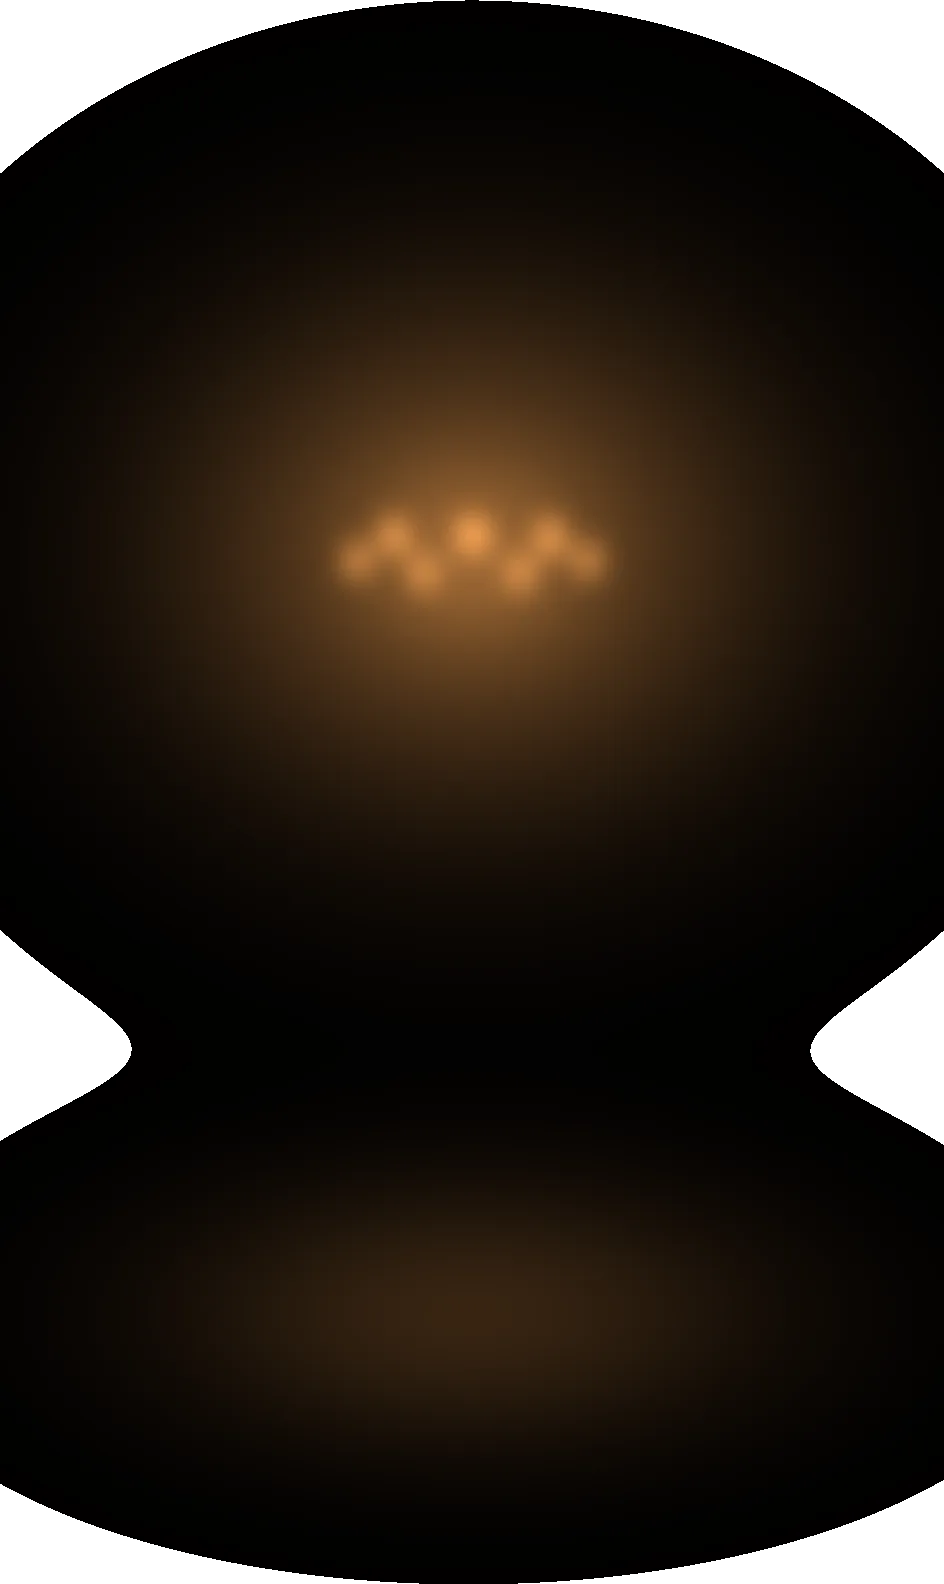
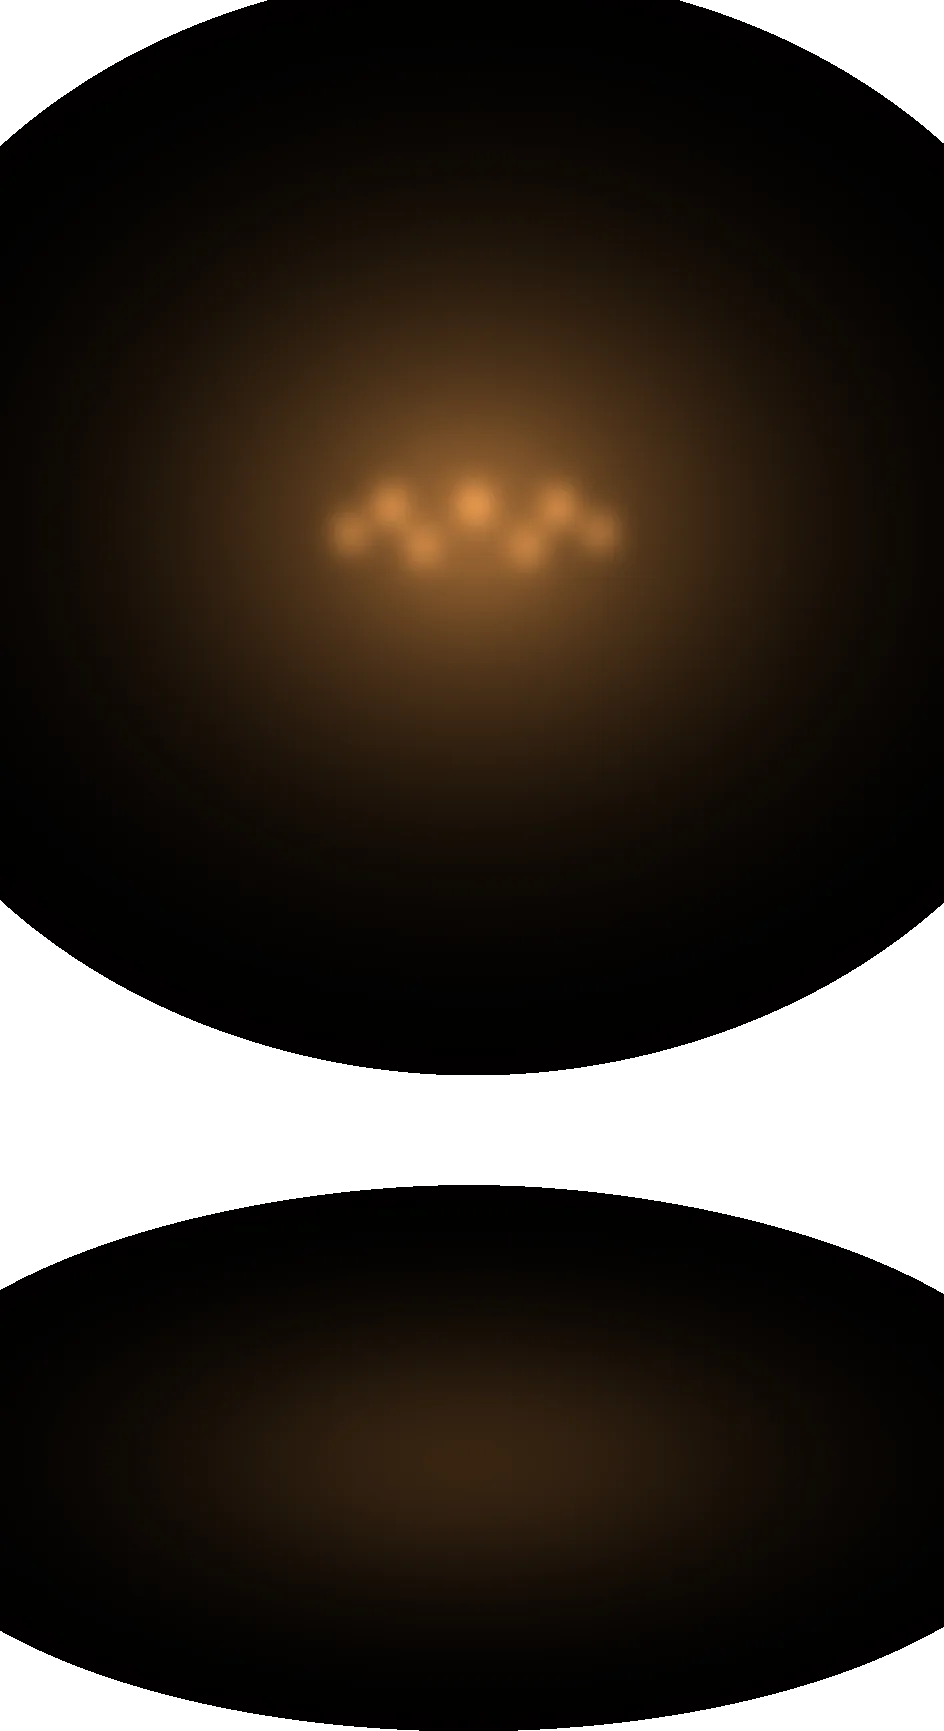
Castle (phone): chandelier hangs high like on the computer — the chain below and the hook are painted out, the chandelier no longer covers the paintings

diff --git a/scripts/build-castle-art.py b/scripts/build-castle-art.py
@@ -438,12 +438,19 @@ TABLE_POOL = (792, 600, 230)           # where the chandelier's light pools on t
 
 
 def hook_cover():
-    """The room's own wall, shifted sideways, painted over the hook."""
-    y0, y1, x0, x1, shift = HOOK_CUT
-    cut = np.zeros((H, W)); cut[y0:y1, x0:x1] = 1
-    cut = ndimage.gaussian_filter(cut, 3)
-    src = np.roll(RA, shift, axis=1)
-    return Image.fromarray(np.dstack([src, cut * 255]).astype(np.uint8), "RGBA")
+    """The room's own wall, shifted sideways, painted over the hook (and, on
+    the phone, over the chain below where the chandelier now hangs).
+    HOOK_CUT is one (rows, columns, shift) box or a list of them."""
+    boxes = HOOK_CUT if isinstance(HOOK_CUT, list) else [HOOK_CUT]
+    colour = np.zeros((H, W, 3)); weight = np.zeros((H, W)); alpha = np.zeros((H, W))
+    for y0, y1, x0, x1, shift in boxes:
+        cut = np.zeros((H, W)); cut[y0:y1, x0:x1] = 1
+        cut = ndimage.gaussian_filter(cut, 3)
+        colour += np.roll(RA, shift, axis=1) * cut[..., None]
+        weight += cut
+        alpha = np.maximum(alpha, cut)
+    colour = colour / np.maximum(weight, 1e-6)[..., None]   # one box: exactly the shifted wall
+    return Image.fromarray(np.dstack([colour, alpha * 255]).astype(np.uint8), "RGBA")
 
 
 def build_chandelier(item):
@@ -917,9 +924,11 @@ if PHONE:
     # fireplace in the middle of the back wall, the table pointing at it, three
     # chairs a side. The table's sides meet at (468, 1166).
     VANISH = (468, 1166)
-    CHAIN_END = (472, 585)              # the chain is cut here; the hook below is painted out
-    HOOK_CUT = (646, 762, 446, 502, 64)
-    CHANDELIER_SCALE = 0.88
+    # The chandelier hangs high, as on the computer (Lena, 2026-10-16): the
+    # chain is cut here and the chain below it and the hook are painted out.
+    CHAIN_END = (474, 400)
+    HOOK_CUT = [(408, 650, 462, 490, 30), (640, 762, 446, 502, 64)]
+    CHANDELIER_SCALE = 0.95
     TABLE = [(343, 1312), (594, 1312), (858, 1621), (79, 1621)]
     TABLE_POOL = (468, 1460, 300)
     # From the perspective (the near edge is 3.1 times wider than the far one)
